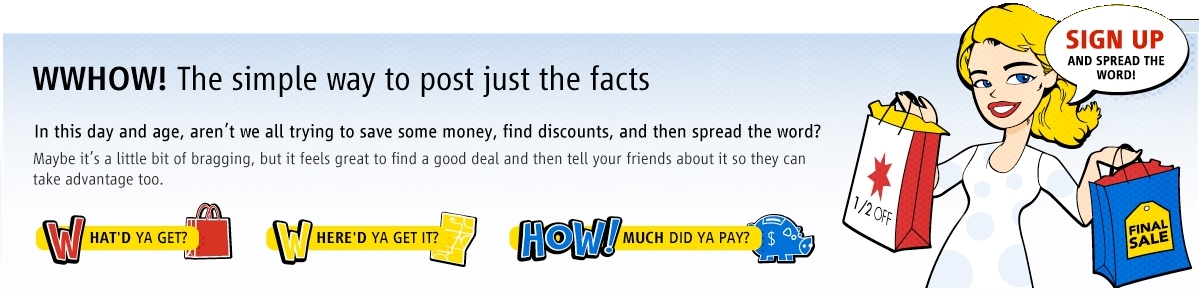
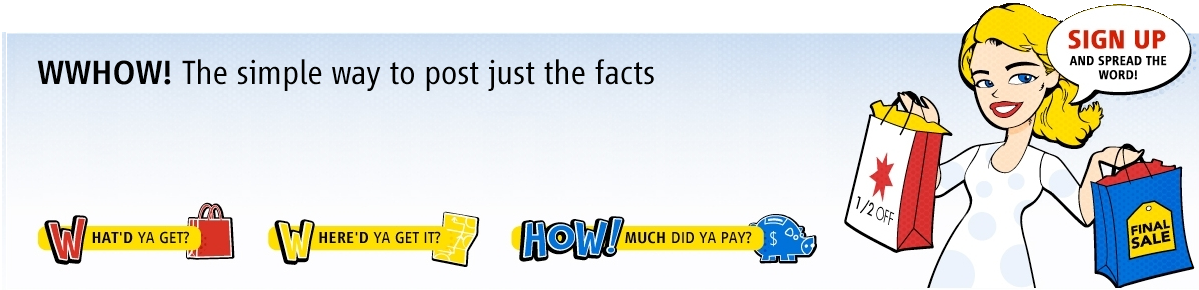
updated text for welcome and posting

diff --git a/public/stylesheets/main.css b/public/stylesheets/main.css
@@ -38,7 +38,7 @@ body {
 /*font-family:'Lucida Sans Unicode','Lucida Grande','Lucida Sans','DejaVu Sans Condensed',sans-serif; */
     font-family: Verdana, Geneva, 'Bitstream Vera Sans', 'DejaVu Sans', sans-serif;
     font-size: .9em;
-    background-color: transparent; /*font-variant:small-caps;*/
+    background-color: transparent;
 }
 
 #frame {
@@ -102,6 +102,14 @@ body {
     height: 291px;
     cursor: pointer;
     z-index: -1;
+
+}
+
+#welcome p {
+    position:absolute;
+    top: 90px;
+    left: 40px;
+    width: 70%;
 }
 
 #menu {
@@ -504,7 +512,7 @@ table.sortable .nosort {
 .buttonRed {
     background-color: #d50f10;
     color: #fff;
-    background: url(/images/toolButtonRed.png) repeat-x left top;
+    background: url(/images/toolButtonRed.png) repeat-x left top;    
 }
 
 #messageListTable td .button {
